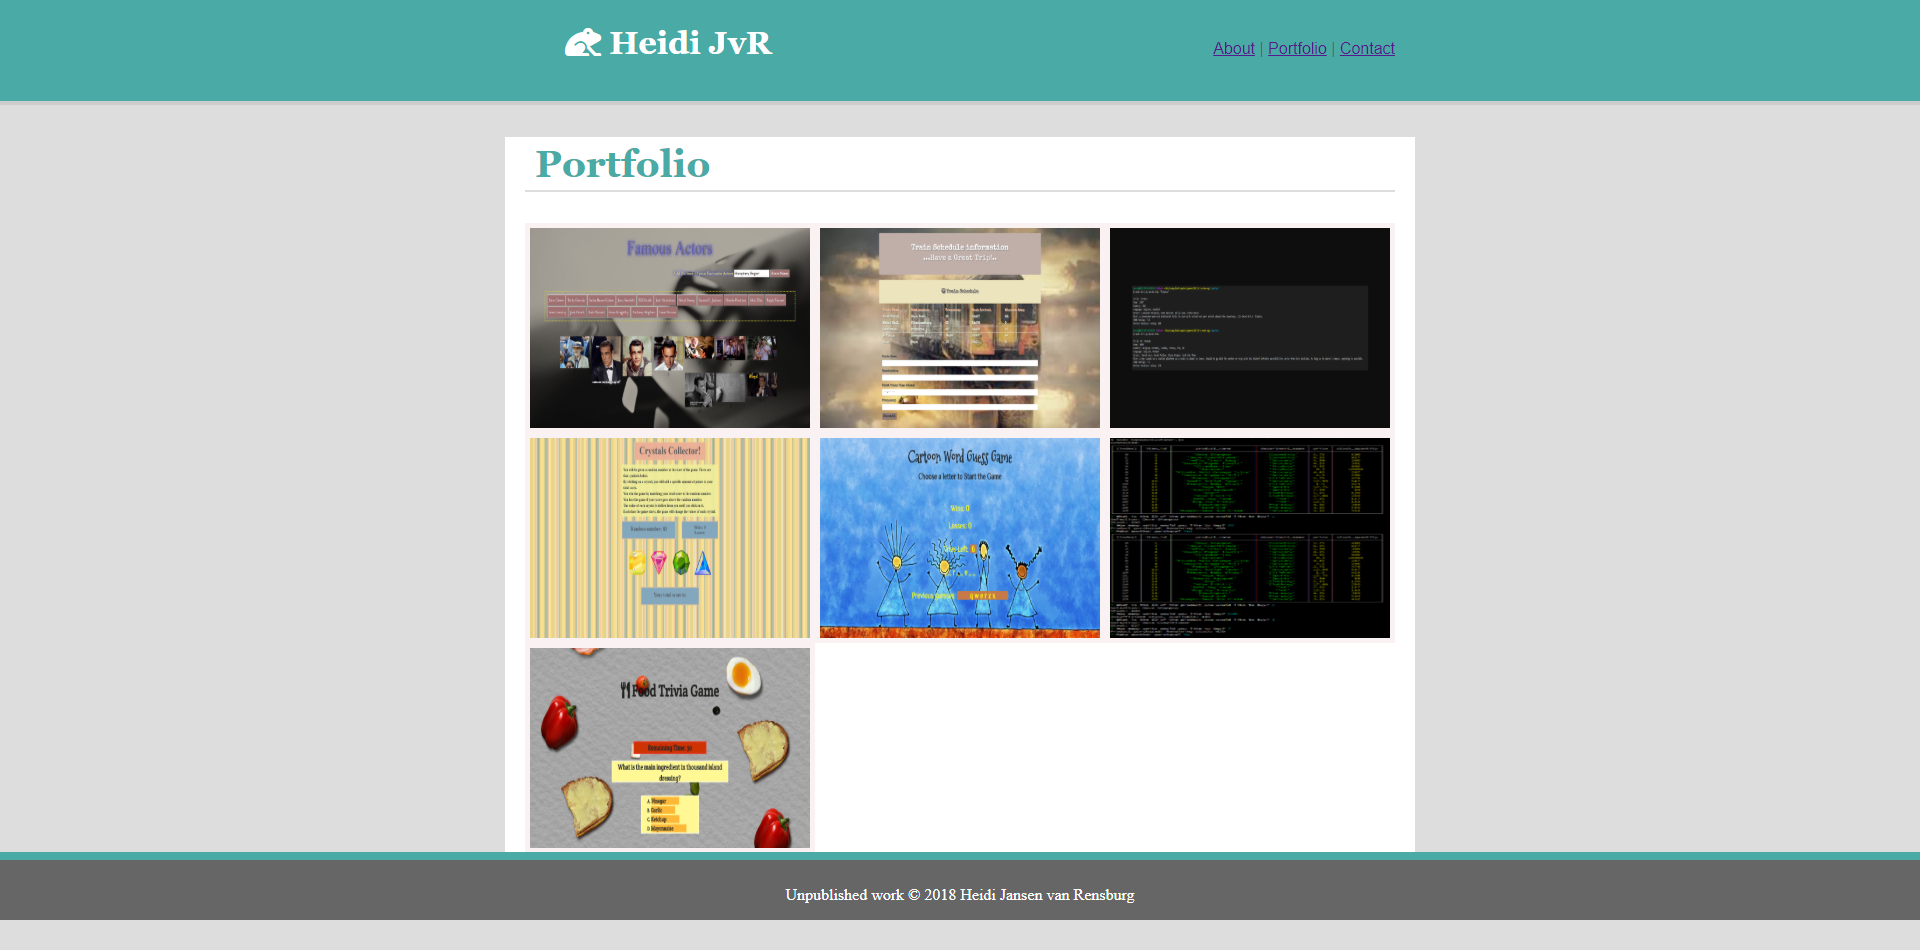
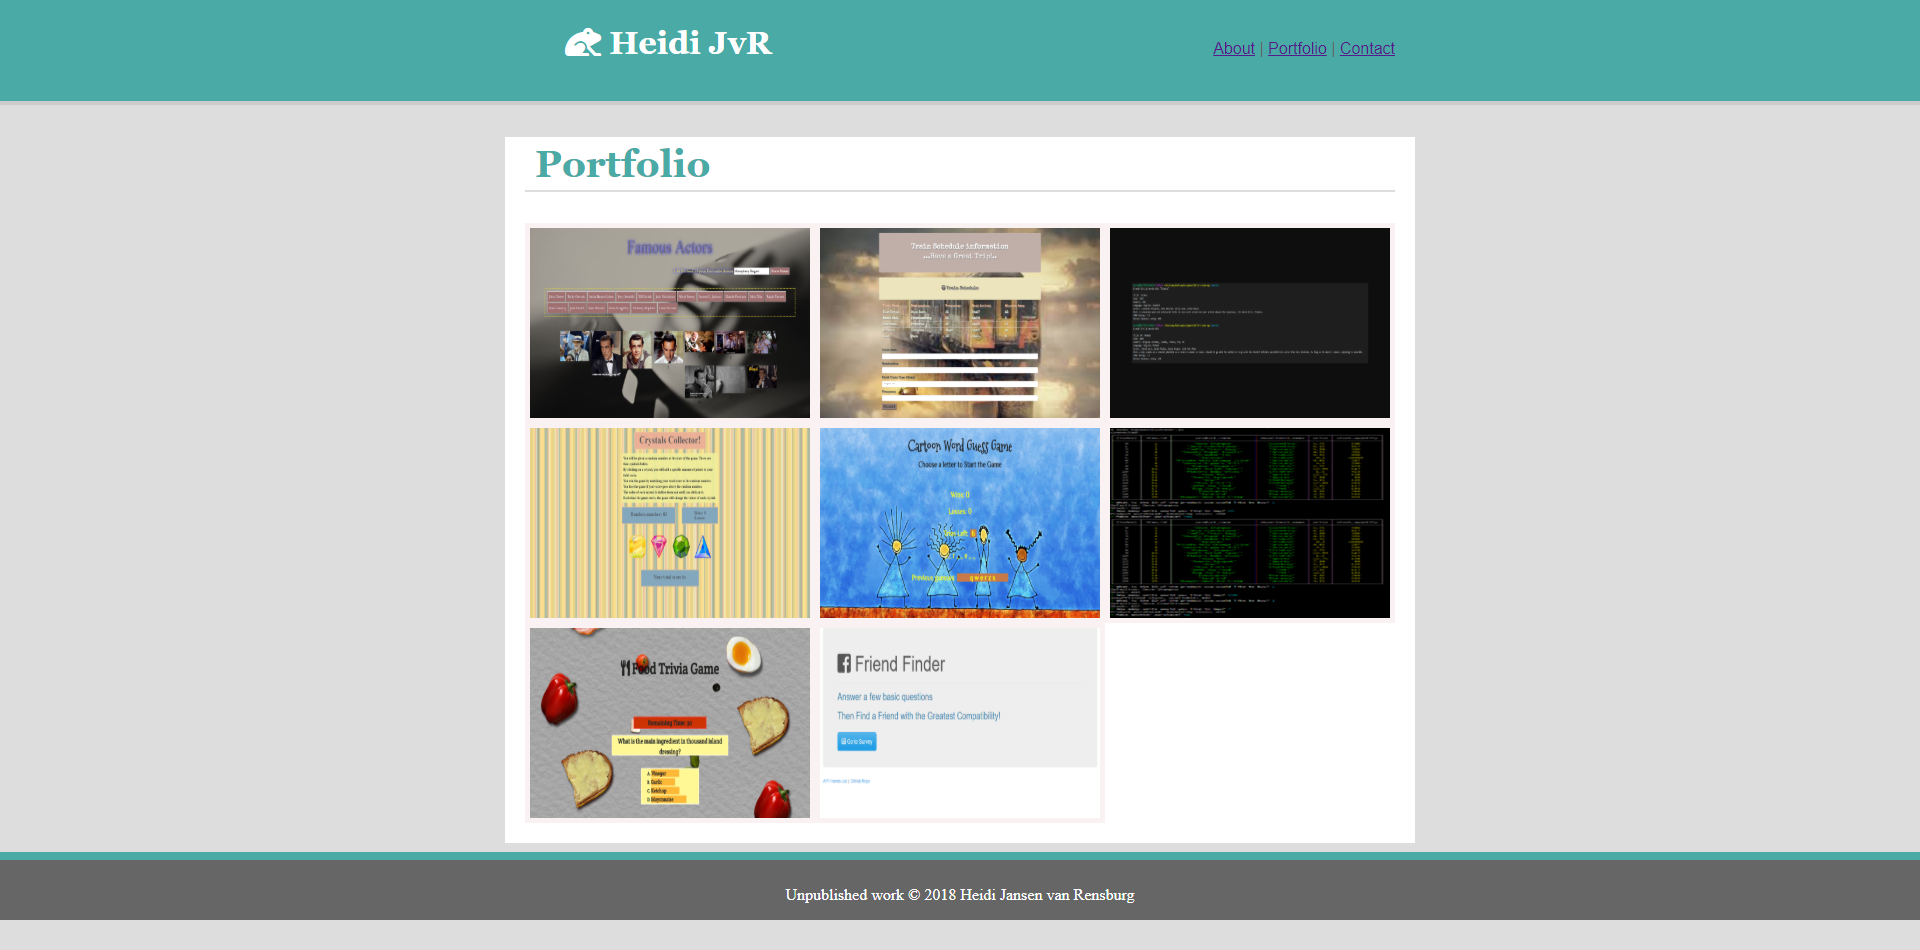
image

Changed region(s): [[0.25, 0.2442, 0.75, 0.9158], [0.5938, 0.2747, 0.6875, 0.3968]]

diff --git a/portfolio.html b/portfolio.html
@@ -35,16 +35,16 @@
                     <div class="row justify-content-start">
                         <div class="col-sm-4">
                             <a href = "https://github.com/Heidijvr/GifTastic" target="GiphyGame">
-                            <img src="assets/images/giphy.screenshot.png" alt="GiphyGame" height="200" width="280" class="images"></a>                               <!-- <img src="https://heidijvr.github.io/Train-Scheduler/assets/images/trainScheduler.png" alt="Train Scheduler"> -->                                  
+                            <img src="assets/images/giphy.screenshot.png" alt="GiphyGame" height="190" width="280" class="images"></a>                               <!-- <img src="https://heidijvr.github.io/Train-Scheduler/assets/images/trainScheduler.png" alt="Train Scheduler"> -->                                  
                         </div>                                                               
                         <div class="col-sm-4">
                             <a href = "https://github.com/Heidijvr/Train-Scheduler" target="Train Scheduler">
-                            <img src="assets/images/trainScheduler.png" alt="Train-Scheduler" height="200" width="280" class="images"></a> 
+                            <img src="assets/images/trainScheduler.png" alt="Train-Scheduler" height="190" width="280" class="images"></a> 
                         </div>    
                     
                         <div class="col-sm-4">
                             <a href = "https://github.com/Heidijvr/liri-node-app" target="Liri-Bot">
-                            <img src="assets/images/movie.this.screenshot.png" alt="Liri-Bot" height="200" width="280" class="images"></a> 
+                            <img src="assets/images/movie.this.screenshot.png" alt="Liri-Bot" height="190" width="280" class="images"></a> 
                         </div>    
                     </div>                                 
               
@@ -53,25 +53,31 @@
                     <div class="row justify-content-start">       
                         <div class="col-sm-4">
                             <a href = "https://github.com/Heidijvr/Crystals-Collector-unit-4-game" target="Crystals Collector">
-                            <img src="assets/images/Crystals-Collector.png" alt="Crystals Collector" height="200" width="280" class="images"></a> 
+                            <img src="assets/images/Crystals-Collector.png" alt="Crystals Collector" height="190" width="280" class="images"></a> 
                         </div>
                         <div class="col-sm-4">
                             <a href = "https://github.com/Heidijvr/Word-Guess-Game" target="Cartoon Word Guess Game">
-                            <img src="assets/images/cartoon.word.game.png" alt="Cartoon Word Guess Game" height="200" width="280" class="images"></a> 
+                            <img src="assets/images/cartoon.word.game.png" alt="Cartoon Word Guess Game" height="190" width="280" class="images"></a> 
                         </div>
                         <div class="col-sm-4">
                             <a href = "https://github.com/Heidijvr/Bamazon" target="Bamazon">
-                            <img src="assets/images/Bamazon.png" alt="Bamazon" height="200" width="280" class="images"></a> 
+                            <img src="assets/images/Bamazon.png" alt="Bamazon" height="190" width="280" class="images"></a> 
                         </div>
                     </div>
 
                     <div class="row justify-content-start">
                         <div class="col-sm-4">
                             <a href = "https://github.com/Heidijvr/Trivia-Game" target="Food Trivia Game">  
-                            <img src="assets/images/screencaptureTrivia.png" alt="Trivia Game" height="200" width="280" class="images"></a>                              
+                            <img src="assets/images/screencaptureTrivia.png" alt="Trivia Game" height="190" width="280" class="images"></a>                              
                         </div>                        
-                    </div>   
-            </div>        
+                      
+                    
+                        <div class="col-sm-4">
+                            <a href = "https://github.com/Heidijvr/FriendFinder" target="Friend Finder">  
+                            <img src="assets/images/home.png" alt="Friend Finder" height="190" width="280" class="images"></a>                              
+                        </div>  
+                    </div>                          
+                </div>        
         </div>     
         </div>                                                                                       
             <div id="footer">             
